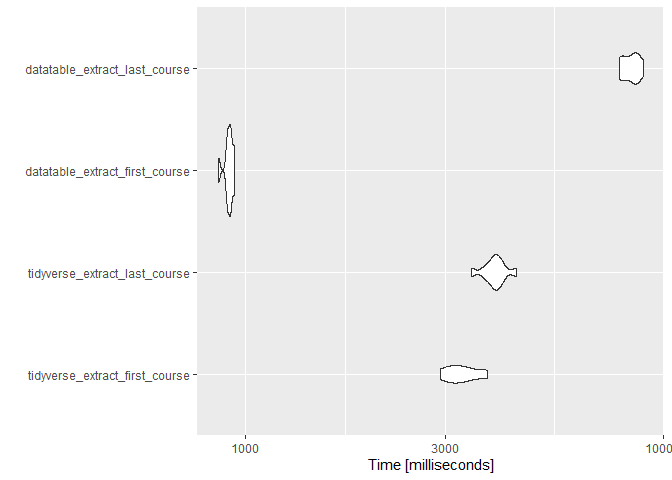
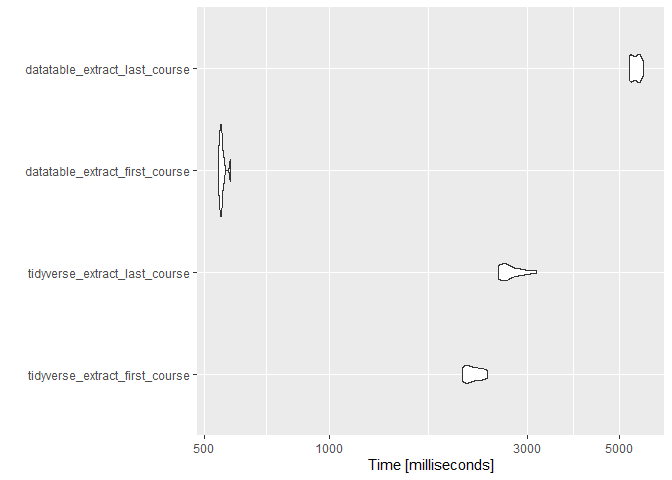
edit data.table tutorial

diff --git a/03_blog_posts/2020-04-07_data-table-versus-dplyr/2020-04-07_data-table-versus-dplyr.md b/03_blog_posts/2020-04-07_data-table-versus-dplyr/2020-04-07_data-table-versus-dplyr.md
@@ -1,7 +1,7 @@
 You can use data.table or tidyverse\!
 ================
 Erika Duan
-2020-04-26
+2020-05-24
 
   - [Introduction](#introduction)
   - [Creating a test dataset](#creating-a-test-dataset)
@@ -752,10 +752,10 @@ interesting to see whether `fcase` can perform significantly faster than
     ## # A tibble: 4 x 3
     ##   Tasks                                     Tidyverse      `Data table`    
     ##   <chr>                                     <drtn>         <drtn>          
-    ## 1 Sort by student ID & platform start date   3.572195 secs  0.967489004 se~
-    ## 2 Create new lag values grouped by student~  4.023089 secs  2.657021046 se~
-    ## 3 Perform case_when grouped by student ID   18.412508 secs 14.536787987 se~
-    ## 4 Fill NAs grouped by student ID             2.670468 secs  0.004459858 se~
+    ## 1 Sort by student ID & platform start date   3.230812 secs  0.712323904 se~
+    ## 2 Create new lag values grouped by student~  3.511389 secs  1.939750910 se~
+    ## 3 Perform case_when grouped by student ID   14.010131 secs 11.656648159 se~
+    ## 4 Fill NAs grouped by student ID             2.436539 secs  0.004992962 se~
 
 ## Group by using a numeric instead of character variable type
 
@@ -811,16 +811,22 @@ type using `data.table.`
 # The magic behind the code
 
 So why are `data.table` operations more efficient than `tidyverse` when
-variable groupings are involved? We can find some explanations
-[here](https://cran.r-project.org/web/packages/data.table/vignettes/datatable-keys-fast-subset.html)
+variable group bys are required? Detailed explanations exist
+[here](https://cran.r-project.org/web/packages/data.table/vignettes/datatable-keys-fast-subset.html),
+[here](https://jangorecki.gitlab.io/data.cube/library/data.table/html/datatable-optimize.html)
 and
 [here](https://stackoverflow.com/questions/61322864/is-there-a-visual-explanation-of-why-data-table-operations-are-faster-than-tidyv).
 
-In `tidyverse`, operations rely on vector scans, which process
-information row by row to create logical vectors (containing either
-`TRUE` or `FALSE` as its output) of size `nrow(dataset)`. Intermediate
-outputs are stored as separate logical vectors. The last step involves
-returning all the rows where the expression evaluates to `TRUE`.
+`Tidyverse` operations use a vector scan approach to generate logical
+vectors (with `TRUE` or `FALSE` values) of size `nrow(dataset)`.
+Intermediate outputs are also stored as logical vectors and the last
+step involves returning all rows where the expression evaluates to
+`TRUE`.
+
+In contrast, `data.table` is efficient because it contains a very fast
+ordering method **and** enables fast subsetting of data by indexing the
+data frame on the first run (i.e. it performs binary search based
+subsetting instead of vector scanning).
 
 # Other resources
 
